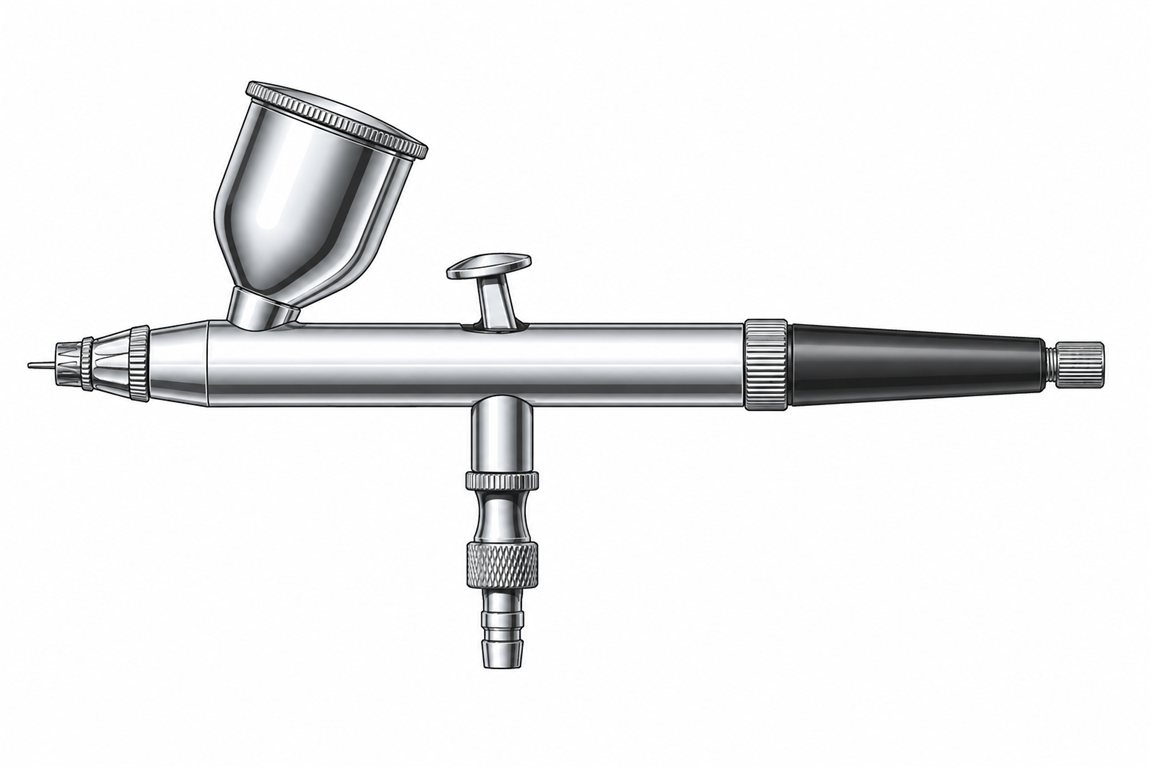
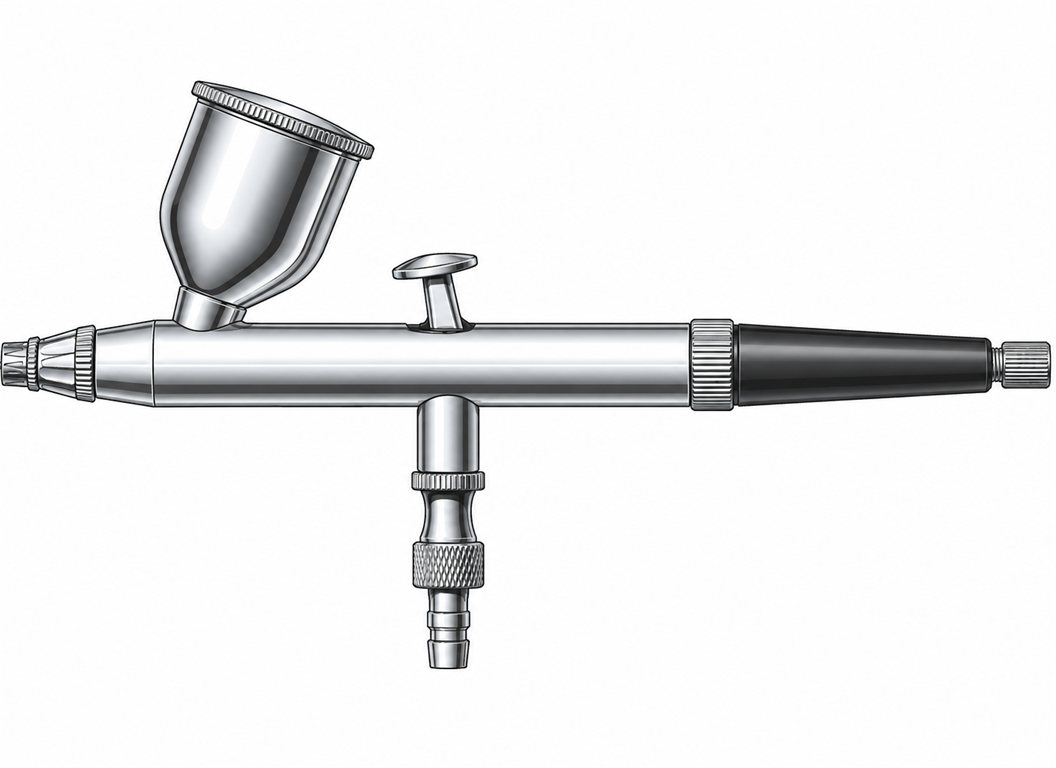
tips: ハンドピース図解の写真を差し替え＋新比率(1.375)にラベル座標を再調整

diff --git a/public/tips/airbrush-basics.html b/public/tips/airbrush-basics.html
@@ -205,31 +205,31 @@
     <p>使い方や洗浄の説明で必ず出てくるので、最低限の部位名を押さえておきましょう。</p>
     <figure style="margin: 24px 0;">
       <svg viewBox="0 0 820 540" xmlns="http://www.w3.org/2000/svg" xmlns:xlink="http://www.w3.org/1999/xlink" role="img" aria-label="ハンドピース（重力式・ダブルアクション）の各部名称" style="width:100%;height:auto;display:block;background:#ffffff;border:1px solid #e5e7eb;border-radius:12px;">
-        <image href="/tips/airbrush-handpiece.jpg" xlink:href="/tips/airbrush-handpiece.jpg" x="130" y="80" width="560" height="373" preserveAspectRatio="xMidYMid meet" />
-        <rect x="130" y="80" width="560" height="373" fill="none" stroke="#e5e7eb" stroke-width="1"/>
+        <image href="/tips/airbrush-handpiece.jpg" xlink:href="/tips/airbrush-handpiece.jpg" x="146" y="76" width="528" height="384" preserveAspectRatio="xMidYMid meet" />
+        <rect x="146" y="76" width="528" height="384" fill="none" stroke="#e5e7eb" stroke-width="1"/>
         <g font-family="-apple-system, sans-serif">
           <!-- leaders -->
-          <line x1="143" y1="260" x2="122" y2="236" stroke="#6b7280" stroke-width="1"/>
-          <line x1="180" y1="258" x2="122" y2="300" stroke="#6b7280" stroke-width="1"/>
-          <line x1="281" y1="128" x2="281" y2="55" stroke="#6b7280" stroke-width="1"/>
-          <line x1="372" y1="198" x2="432" y2="56" stroke="#6b7280" stroke-width="1"/>
-          <line x1="662" y1="263" x2="700" y2="261" stroke="#6b7280" stroke-width="1"/>
-          <line x1="456" y1="290" x2="510" y2="500" stroke="#6b7280" stroke-width="1"/>
-          <line x1="374" y1="362" x2="252" y2="500" stroke="#6b7280" stroke-width="1"/>
+          <line x1="149" y1="263" x2="122" y2="239" stroke="#6b7280" stroke-width="1"/>
+          <line x1="174" y1="265" x2="122" y2="297" stroke="#6b7280" stroke-width="1"/>
+          <line x1="279" y1="127" x2="279" y2="55" stroke="#6b7280" stroke-width="1"/>
+          <line x1="362" y1="197" x2="432" y2="56" stroke="#6b7280" stroke-width="1"/>
+          <line x1="655" y1="265" x2="698" y2="263" stroke="#6b7280" stroke-width="1"/>
+          <line x1="448" y1="272" x2="512" y2="500" stroke="#6b7280" stroke-width="1"/>
+          <line x1="374" y1="361" x2="252" y2="500" stroke="#6b7280" stroke-width="1"/>
           <!-- dots -->
-          <circle cx="143" cy="260" r="3" fill="#4b5563"/>
-          <circle cx="180" cy="258" r="3" fill="#4b5563"/>
-          <circle cx="281" cy="131" r="3" fill="#2563eb"/>
-          <circle cx="372" cy="202" r="3" fill="#b45309"/>
-          <circle cx="658" cy="263" r="3" fill="#4b5563"/>
-          <circle cx="456" cy="286" r="3" fill="#4b5563"/>
-          <circle cx="376" cy="360" r="3" fill="#4b5563"/>
+          <circle cx="151" cy="264" r="3" fill="#4b5563"/>
+          <circle cx="176" cy="264" r="3" fill="#4b5563"/>
+          <circle cx="279" cy="130" r="3" fill="#2563eb"/>
+          <circle cx="362" cy="201" r="3" fill="#b45309"/>
+          <circle cx="651" cy="265" r="3" fill="#4b5563"/>
+          <circle cx="446" cy="268" r="3" fill="#4b5563"/>
+          <circle cx="376" cy="359" r="3" fill="#4b5563"/>
           <!-- labels -->
-          <text x="118" y="232" text-anchor="end" font-size="12" fill="#374151">ノズル</text>
-          <text x="118" y="304" text-anchor="end" font-size="12" fill="#374151">ニードルキャップ</text>
-          <text x="281" y="48" text-anchor="middle" font-size="12" font-weight="700" fill="#1e40af">塗料カップ</text>
+          <text x="118" y="236" text-anchor="end" font-size="12" fill="#374151">ノズル</text>
+          <text x="118" y="300" text-anchor="end" font-size="12" fill="#374151">ニードルキャップ</text>
+          <text x="279" y="48" text-anchor="middle" font-size="12" font-weight="700" fill="#1e40af">塗料カップ</text>
           <text x="432" y="48" text-anchor="start" font-size="12" font-weight="700" fill="#9a3412">トリガー（押す＝空気／引く＝塗料）</text>
-          <text x="700" y="259" text-anchor="start" font-size="12" fill="#374151">ニードル（後端）</text>
+          <text x="700" y="261" text-anchor="start" font-size="12" fill="#374151">ニードル（後端）</text>
           <text x="520" y="512" text-anchor="middle" font-size="12" fill="#374151">本体（内部をニードルが貫通）</text>
           <text x="70" y="512" text-anchor="start" font-size="12" fill="#374151">エアホース → コンプレッサーへ</text>
         </g>